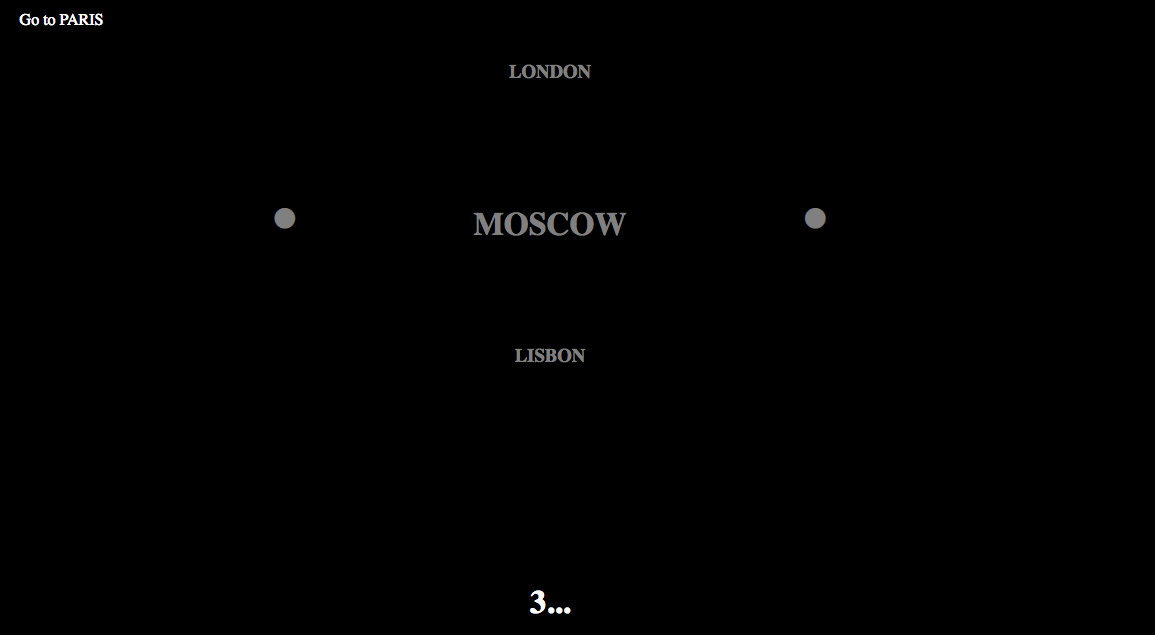
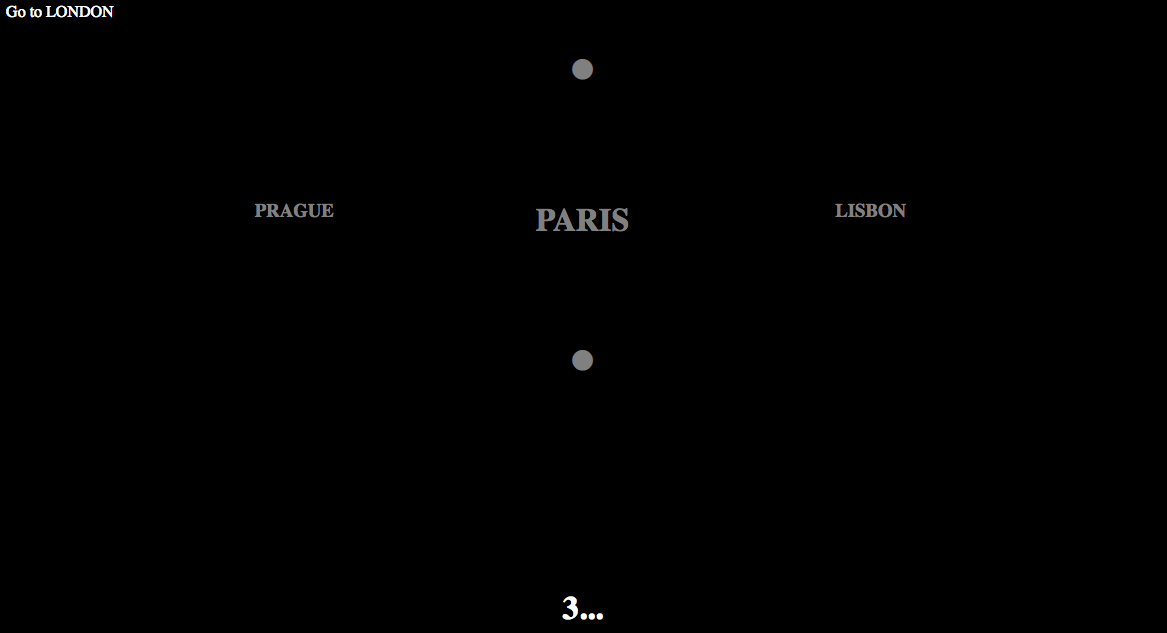
full thing ready to goooo!!! 1-second countdown, no delay

diff --git a/exp/exp.html b/exp/exp.html
@@ -17,7 +17,7 @@
   <div id="consent_page" style = "font-size: 20px; display: block;" align = "center">
       <h3>Consent form for participation in this online experiment</h3>
       <p>
-          Designed by: Momchil Tomov and Rohan Hundia<br>
+          Designed by: Momchil Tomov<br>
       </p>
       <p>Before you decide whether you want to take part, it is important for you to <br>read the following information carefully.</p>
       <p>The study provides information about the nature of learning and decision making</p>
@@ -38,16 +38,16 @@
       <h2>Subway Navigation</h2>
       <p>Imagine you are a tourist and you have to navigate the subway network in an unfamiliar town.</p>
       <p>On each trial, you will have to navigate from a starting station to a goal station, which will appear on the screen for 2 seconds:</p>
-      <p><img src="images/new_trial.png" height="20%" width="20%"></p>
+      <p><img src="images/new_trial.png" height="300px" ></p>
       <p>The trial will begin with a 3..2..1.. countdown, during which you can plan your trip:
-      <p><img src="images/countdown.png" height="20%" width="20%"></p>
+      <p><img src="images/countdown.png" height="300px" ></p>
       <p>Please try to plan your trip as quickly as possible.</p>
       <p>During your trip, you will see the name of the current station in the middle of the screen, surrounded by its neighboring stations in all four directions:</p>
-      <p><img src="images/trial.png" height="20%" width="20%"></p>
+      <p><img src="images/trial.png" height="300px"></p>
       <p>You can navigate between stations using the <b>arrow keys</b> (up, down, left, right). A circle means that there is no station in that direction.</p>
       <p>Once you reach the goal station, press the <b>space key</b> to end the trial and start the next trial:</p>
-      <p><img src="images/success.png" height="20%" width="20%"></p>
-      <p>There will be 80 trials in the experiment.</p>
+      <p><img src="images/success.png" height="300px"></p>
+      <p>There will be 90 trials in the experiment. All stations are named after cities.</p>
       <p>Please disable any ad-blockers before starting the experiment.</p>
       <button type="button" id="continue" style="font-size: 22px;">Continue</button>
 
@@ -68,14 +68,14 @@
             MOSCOW
             BERLIN
             LONDON
-            PRAGUE
+            DUBLIN
             SOFIA
             ROME
-            MADRID
+            HELSINKI
             WARSAW
-            LISBON
+            OSLO
             4
-            -1 -1 0
+            -1 -1 10
             1 3 20
             4 6 20
             10 7 20
@@ -136,6 +136,7 @@
 
       <h1 id="message" style="position: absolute; left: 0; top: 60%; width: 100%; text-align: center;">message</h1>
       <h1 id="countdown" style="position: absolute; left: 0; top: 70%; width: 100%; text-align: center;">countdown</h1>
+      <p id="tip" style="position: absolute; left: 0; top: 90%; width: 100%; text-align: center; color: grey;">Move using the <b>arrow keys</b> (up, down, left, right). Press <b>space</b> when you reach the goal.</p>
   </div>
 
   <div id="test_page" style="font-size: 22px; display:block;" align = "center" >
@@ -153,9 +154,9 @@
 
 
   <script type="text/javascript">
-      $("#consent_page").hide();
+      $("#consent_page").show();
       $("#captcha").hide();
-      $("#instruction_page").show();
+      $("#instruction_page").hide();
       $("#new_trial_page").hide();
       $("#trial_page").hide();
       $("#test_page").hide();
